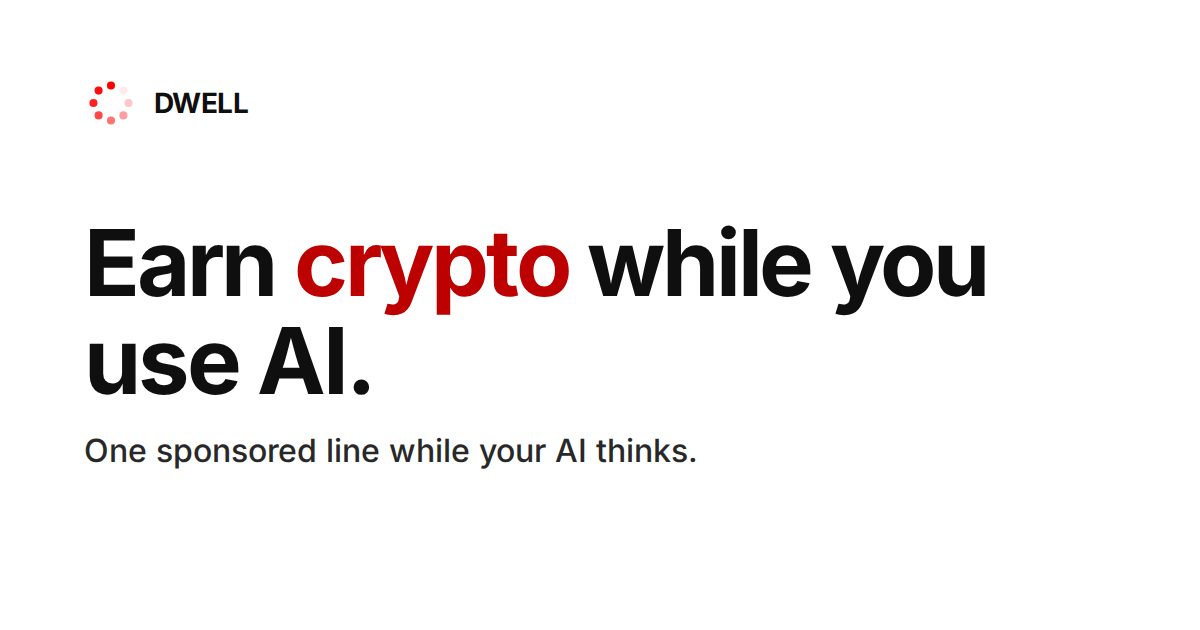
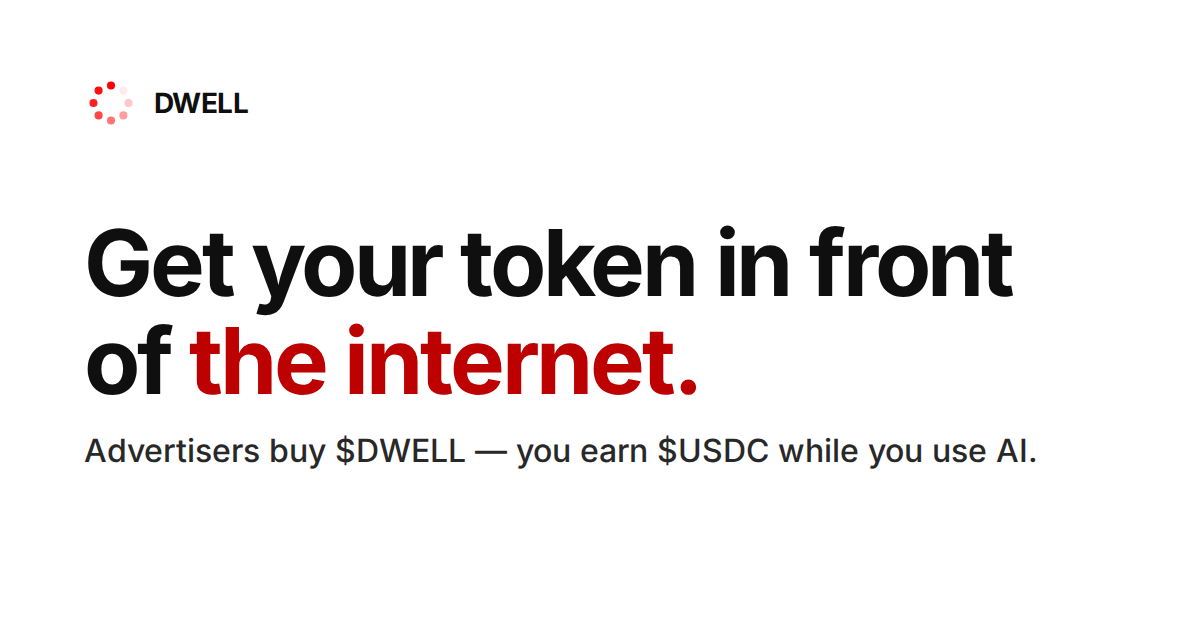
Trim verbose link-preview tags and refresh the stale og.png card (#351)
Two issues since the OG tags first landed:

1. Too verbose — every page carried 17 OG/Twitter meta tags. The
   og:image sub-tags (secure_url, type, width, height) and the four
   duplicate twitter:* tags (title, description, image, image:alt) are
   boilerplate that Twitter/X and other scrapers already derive from the
   og:* tags. Trim each page to the meaningful set: og:type, site_name,
   url, title, description, image, image:alt, plus twitter:card. 17 → 8.

2. Stale card — the site was rebranded (advertisers buy adspace with
   $DWELL; viewers earn $USDC; dwells never convert to $DWELL), but
   og.png still read "Earn crypto while you use AI" and the og:image:alt
   echoed it. Regenerate og.png to mirror the current homepage hero —
   "Get your token in front of the internet" over "Advertisers buy
   $DWELL — you earn $USDC while you use AI" — and update the alt text.
   (og-referral.png already said "Earn USDC" and is unchanged.)

gen-landers.mjs rewrote twitter:title/description per campaign and threw
if the anchors were missing, so drop those two rewrites in both the
advertisers and audience-lander paths; the landers inherit the correct
per-campaign title/description via the og:* tags Twitter falls back to.

Verified: all six pages carry exactly the lean 8-tag set (no trimmed tag
survives, none missing), canonical matches og:url, og:image resolves to a
real 1200×630 PNG under 300KB, no "Earn crypto" copy remains, and every
[…]

Changed region(s): [[0.0617, 0.3619, 0.8633, 0.6333], [0.0617, 0.6937, 0.8633, 0.754]]

diff --git a/dwell/web/privacy.html b/dwell/web/privacy.html
@@ -11,20 +11,11 @@
   <meta property="og:type" content="website" />
   <meta property="og:site_name" content="DWELL" />
   <meta property="og:url" content="https://dwellprotocol.com/privacy" />
-  <meta property="og:locale" content="en_US" />
   <meta property="og:title" content="Privacy · DWELL" />
   <meta property="og:description" content="Anonymous from day one. DWELL never reads your prompts and asks for an email only when you sign in to the portal or invite a friend." />
-  <meta property="og:image" content="https://dwellprotocol.com/og.png?v=20260707" />
-  <meta property="og:image:secure_url" content="https://dwellprotocol.com/og.png?v=20260707" />
-  <meta property="og:image:type" content="image/png" />
-  <meta property="og:image:width" content="1200" />
-  <meta property="og:image:height" content="630" />
-  <meta property="og:image:alt" content="DWELL — Earn crypto while you use AI." />
+  <meta property="og:image" content="https://dwellprotocol.com/og.png?v=20260713" />
+  <meta property="og:image:alt" content="DWELL — Get your token in front of the internet." />
   <meta name="twitter:card" content="summary_large_image" />
-  <meta name="twitter:title" content="Privacy · DWELL" />
-  <meta name="twitter:description" content="Anonymous from day one. DWELL never reads your prompts and asks for an email only when you sign in to the portal or invite a friend." />
-  <meta name="twitter:image" content="https://dwellprotocol.com/og.png?v=20260707" />
-  <meta name="twitter:image:alt" content="DWELL — Earn crypto while you use AI." />
   <link rel="preconnect" href="https://fonts.googleapis.com" />
   <link href="https://fonts.googleapis.com/css2?family=Inter:wght@400;500;600;700;800&family=JetBrains+Mono:wght@400;700&display=swap" rel="stylesheet" />
   <link rel="stylesheet" href="theme.css" />

diff --git a/dwell/web/products.html b/dwell/web/products.html
@@ -10,20 +10,11 @@
   <meta property="og:type" content="website" />
   <meta property="og:site_name" content="DWELL" />
   <meta property="og:url" content="https://dwellprotocol.com/products" />
-  <meta property="og:locale" content="en_US" />
   <meta property="og:title" content="DWELL Products — earn dwells everywhere your AI thinks" />
   <meta property="og:description" content="The Chrome extension, the terminal client for Claude Code, and the macOS Sponsor Overlay. One sponsored line while the AI thinks — the person watching earns dwells." />
-  <meta property="og:image" content="https://dwellprotocol.com/og.png?v=20260707" />
-  <meta property="og:image:secure_url" content="https://dwellprotocol.com/og.png?v=20260707" />
-  <meta property="og:image:type" content="image/png" />
-  <meta property="og:image:width" content="1200" />
-  <meta property="og:image:height" content="630" />
-  <meta property="og:image:alt" content="DWELL — Earn crypto while you use AI." />
+  <meta property="og:image" content="https://dwellprotocol.com/og.png?v=20260713" />
+  <meta property="og:image:alt" content="DWELL — Get your token in front of the internet." />
   <meta name="twitter:card" content="summary_large_image" />
-  <meta name="twitter:title" content="DWELL Products — earn dwells everywhere your AI thinks" />
-  <meta name="twitter:description" content="The Chrome extension, the terminal client for Claude Code, and the macOS Sponsor Overlay. One sponsored line while the AI thinks — the person watching earns dwells." />
-  <meta name="twitter:image" content="https://dwellprotocol.com/og.png?v=20260707" />
-  <meta name="twitter:image:alt" content="DWELL — Earn crypto while you use AI." />
   <link rel="preconnect" href="https://fonts.googleapis.com" />
   <link rel="preconnect" href="https://fonts.gstatic.com" crossorigin />
   <link href="https://fonts.googleapis.com/css2?family=Inter:wght@400;500;600;700;800;900&family=JetBrains+Mono:wght@400;500;700&display=swap" rel="stylesheet" />

diff --git a/dwell/web/terms.html b/dwell/web/terms.html
@@ -11,20 +11,11 @@
   <meta property="og:type" content="website" />
   <meta property="og:site_name" content="DWELL" />
   <meta property="og:url" content="https://dwellprotocol.com/terms" />
-  <meta property="og:locale" content="en_US" />
   <meta property="og:title" content="Terms · DWELL" />
   <meta property="og:description" content="How the ad marketplace, the 60% viewer share, and dwell redemption into USDC or Claude credits work." />
-  <meta property="og:image" content="https://dwellprotocol.com/og.png?v=20260707" />
-  <meta property="og:image:secure_url" content="https://dwellprotocol.com/og.png?v=20260707" />
-  <meta property="og:image:type" content="image/png" />
-  <meta property="og:image:width" content="1200" />
-  <meta property="og:image:height" content="630" />
-  <meta property="og:image:alt" content="DWELL — Earn crypto while you use AI." />
+  <meta property="og:image" content="https://dwellprotocol.com/og.png?v=20260713" />
+  <meta property="og:image:alt" content="DWELL — Get your token in front of the internet." />
   <meta name="twitter:card" content="summary_large_image" />
-  <meta name="twitter:title" content="Terms · DWELL" />
-  <meta name="twitter:description" content="How the ad marketplace, the 60% viewer share, and dwell redemption into USDC or Claude credits work." />
-  <meta name="twitter:image" content="https://dwellprotocol.com/og.png?v=20260707" />
-  <meta name="twitter:image:alt" content="DWELL — Earn crypto while you use AI." />
   <link rel="preconnect" href="https://fonts.googleapis.com" />
   <link href="https://fonts.googleapis.com/css2?family=Inter:wght@400;500;600;700;800&family=JetBrains+Mono:wght@400;700&display=swap" rel="stylesheet" />
   <link rel="stylesheet" href="theme.css" />

diff --git a/dwell/web/tokenomics.html b/dwell/web/tokenomics.html
@@ -10,20 +10,11 @@
   <meta property="og:type" content="website" />
   <meta property="og:site_name" content="DWELL" />
   <meta property="og:url" content="https://dwellprotocol.com/tokenomics" />
-  <meta property="og:locale" content="en_US" />
   <meta property="og:title" content="DWELL — Tokenomics" />
   <meta property="og:description" content="dwells are dollar-denominated rewards, paid in USDC or Claude credits. $DWELL is a separate token — no revenue flows, no equity." />
-  <meta property="og:image" content="https://dwellprotocol.com/og.png?v=20260707" />
-  <meta property="og:image:secure_url" content="https://dwellprotocol.com/og.png?v=20260707" />
-  <meta property="og:image:type" content="image/png" />
-  <meta property="og:image:width" content="1200" />
-  <meta property="og:image:height" content="630" />
-  <meta property="og:image:alt" content="DWELL — Earn crypto while you use AI." />
+  <meta property="og:image" content="https://dwellprotocol.com/og.png?v=20260713" />
+  <meta property="og:image:alt" content="DWELL — Get your token in front of the internet." />
   <meta name="twitter:card" content="summary_large_image" />
-  <meta name="twitter:title" content="DWELL — Tokenomics" />
-  <meta name="twitter:description" content="dwells are dollar-denominated rewards, paid in USDC or Claude credits. $DWELL is a separate token — no revenue flows, no equity." />
-  <meta name="twitter:image" content="https://dwellprotocol.com/og.png?v=20260707" />
-  <meta name="twitter:image:alt" content="DWELL — Earn crypto while you use AI." />
   <link rel="preconnect" href="https://fonts.googleapis.com" />
   <link rel="preconnect" href="https://fonts.gstatic.com" crossorigin />
   <link href="https://fonts.googleapis.com/css2?family=Inter:wght@400;500;600;700;800;900&family=JetBrains+Mono:wght@400;500;700&display=swap" rel="stylesheet" />

diff --git a/dwell/web/index.html b/dwell/web/index.html
@@ -19,20 +19,11 @@
   <meta property="og:type" content="website" />
   <meta property="og:site_name" content="DWELL" />
   <meta property="og:url" content="https://dwellprotocol.com/" />
-  <meta property="og:locale" content="en_US" />
   <meta property="og:title" content="DWELL — Get your token in front of the internet" />
   <meta property="og:description" content="Advertisers buy adspace with $DWELL. You earn $USDC while you use AI — inside ChatGPT, Claude, and Gemini." />
-  <meta property="og:image" content="https://dwellprotocol.com/og.png?v=20260707" />
-  <meta property="og:image:secure_url" content="https://dwellprotocol.com/og.png?v=20260707" />
-  <meta property="og:image:type" content="image/png" />
-  <meta property="og:image:width" content="1200" />
-  <meta property="og:image:height" content="630" />
+  <meta property="og:image" content="https://dwellprotocol.com/og.png?v=20260713" />
   <meta property="og:image:alt" content="DWELL — Get your token in front of the internet." />
   <meta name="twitter:card" content="summary_large_image" />
-  <meta name="twitter:title" content="DWELL — Get your token in front of the internet" />
-  <meta name="twitter:description" content="Advertisers buy adspace with $DWELL. You earn $USDC while you use AI — inside ChatGPT, Claude, and Gemini." />
-  <meta name="twitter:image" content="https://dwellprotocol.com/og.png?v=20260707" />
-  <meta name="twitter:image:alt" content="DWELL — Get your token in front of the internet." />
   <link rel="preconnect" href="https://fonts.googleapis.com" />
   <link rel="preconnect" href="https://fonts.gstatic.com" crossorigin />
   <link href="https://fonts.googleapis.com/css2?family=Inter:wght@400;500;600;700;800;900&family=JetBrains+Mono:wght@400;500;700&display=swap" rel="stylesheet" />

diff --git a/dwell/web/portal.html b/dwell/web/portal.html
@@ -38,20 +38,11 @@
   <meta property="og:type" content="website" />
   <meta property="og:site_name" content="DWELL" />
   <meta property="og:url" content="https://dwellprotocol.com/portal" />
-  <meta property="og:locale" content="en_US" />
   <meta property="og:title" content="Earn USDC while you use AI" />
   <meta property="og:description" content="A friend invited you to DWELL. One sponsored line shows while ChatGPT, Claude, or Gemini thinks — you earn USDC for watching it." />
   <meta property="og:image" content="https://dwellprotocol.com/og-referral.png?v=20260710" />
-  <meta property="og:image:secure_url" content="https://dwellprotocol.com/og-referral.png?v=20260710" />
-  <meta property="og:image:type" content="image/png" />
-  <meta property="og:image:width" content="1200" />
-  <meta property="og:image:height" content="630" />
   <meta property="og:image:alt" content="A friend invited you — earn USDC while you use AI." />
   <meta name="twitter:card" content="summary_large_image" />
-  <meta name="twitter:title" content="Earn USDC while you use AI" />
-  <meta name="twitter:description" content="A friend invited you to DWELL. One sponsored line shows while ChatGPT, Claude, or Gemini thinks — you earn USDC for watching it." />
-  <meta name="twitter:image" content="https://dwellprotocol.com/og-referral.png?v=20260710" />
-  <meta name="twitter:image:alt" content="A friend invited you — earn USDC while you use AI." />
 
   <link rel="preconnect" href="https://fonts.googleapis.com" />
   <link rel="preconnect" href="https://fonts.gstatic.com" crossorigin />